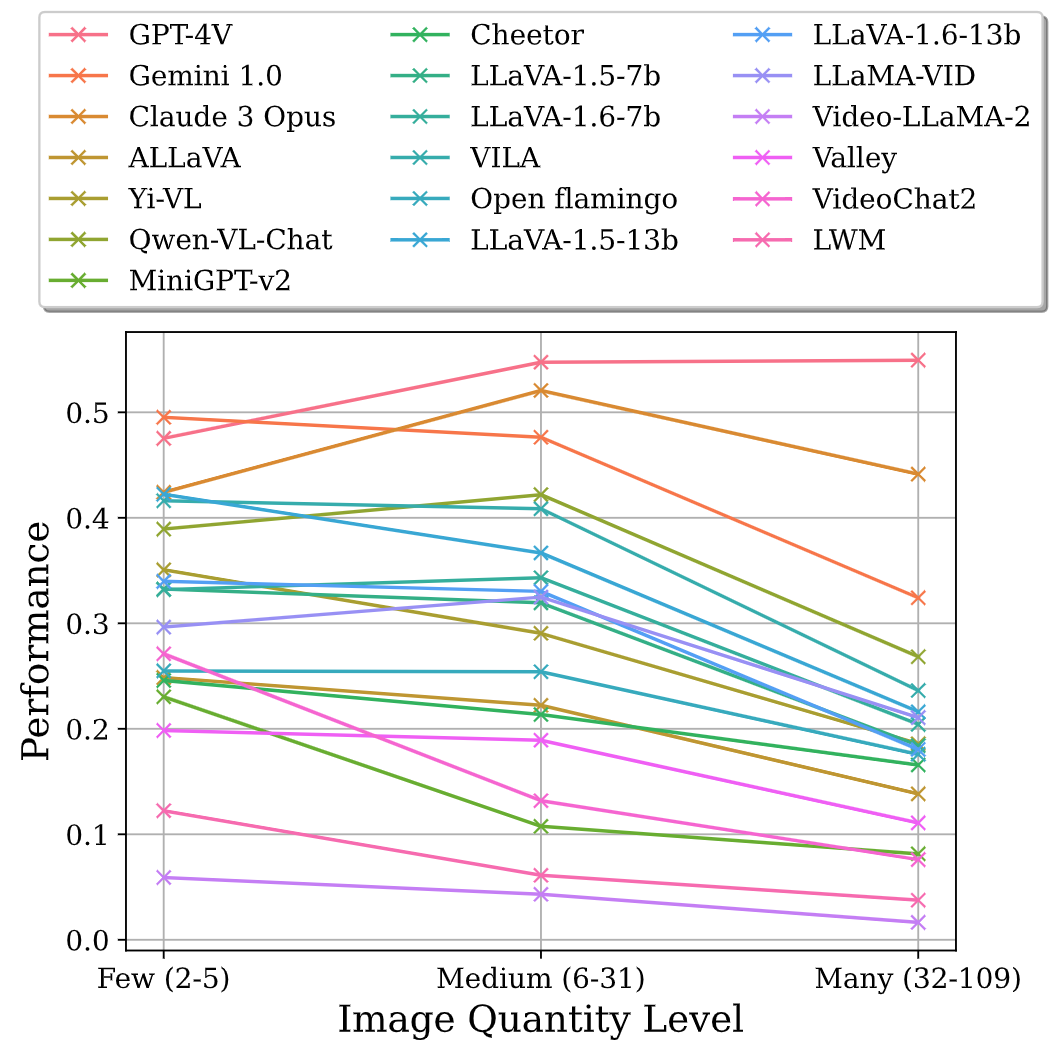
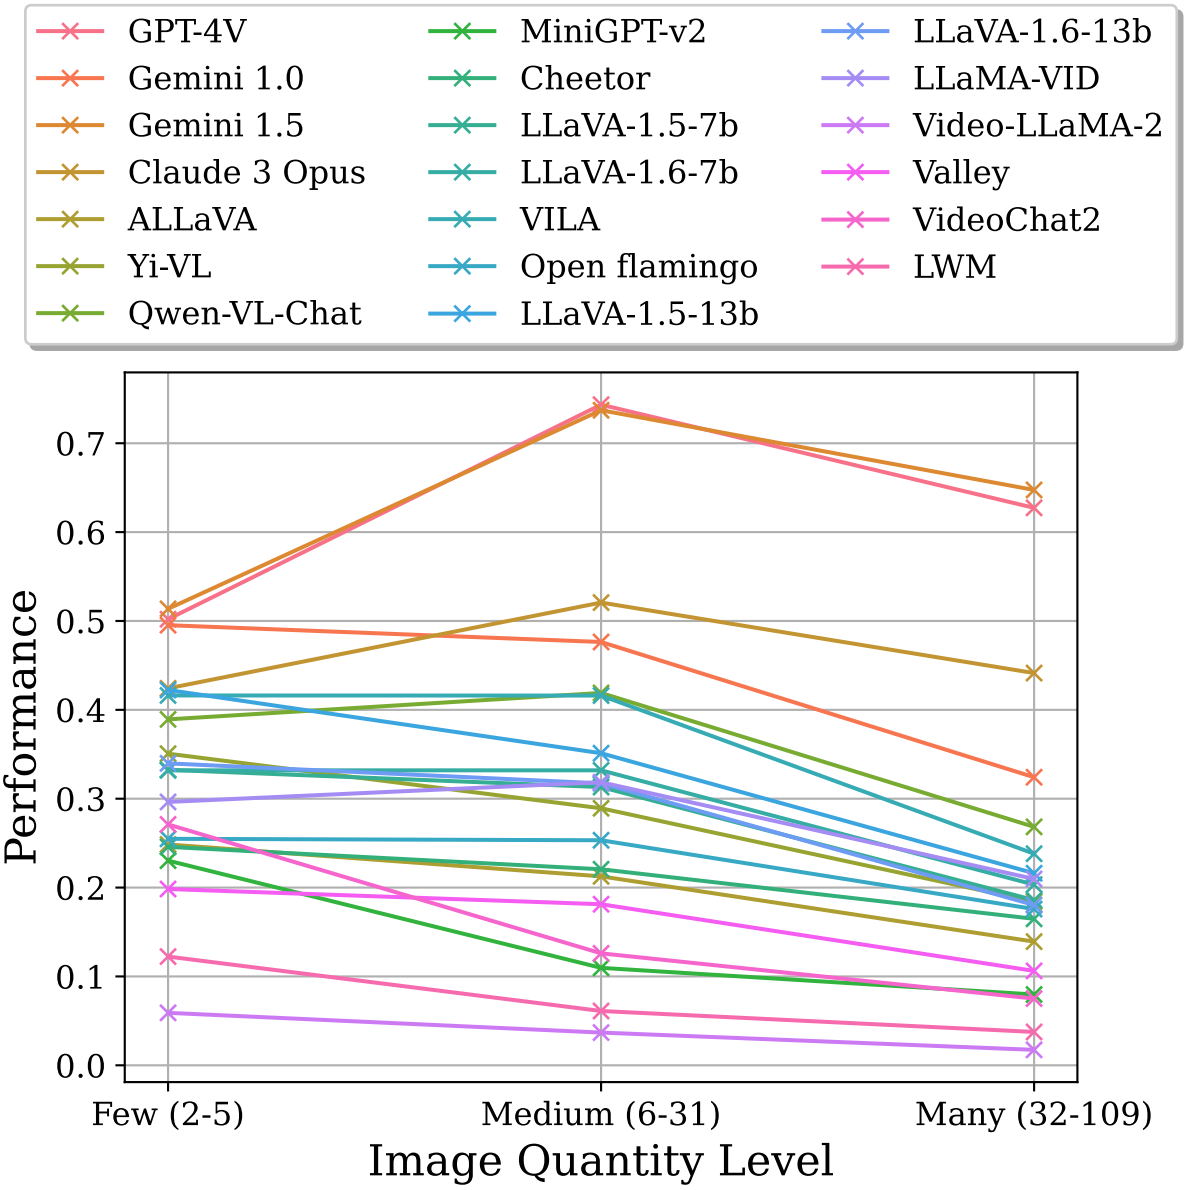
fix

Changed region(s): [[0.0, 0.0, 0.9972, 1.0], [0.6232, 0.4585, 0.6544, 0.489]]

diff --git a/index.html b/index.html
@@ -442,7 +442,7 @@
             significantly declines (as indicated by a steep slope in the curve), especially for the 
             LLaVA-1.5 series models. 
             This is likely because most models have only been trained on single image, resulting in 
-            insufficient generalization for multi-image test data. However, the performance of GPT-4V, 
+            insufficient generalization for multi-image test data. However, the performance of GPT-4V, Gemini 1.5, 
             Claude 3 Opus and Qwen-VL-Chat on the Medium level surpasses that of the Few level. 
             This could be attributed to their training on multi-image data, where a larger number of 
             images can provide more information to some extent, thereby aiding the model in task completion. 
